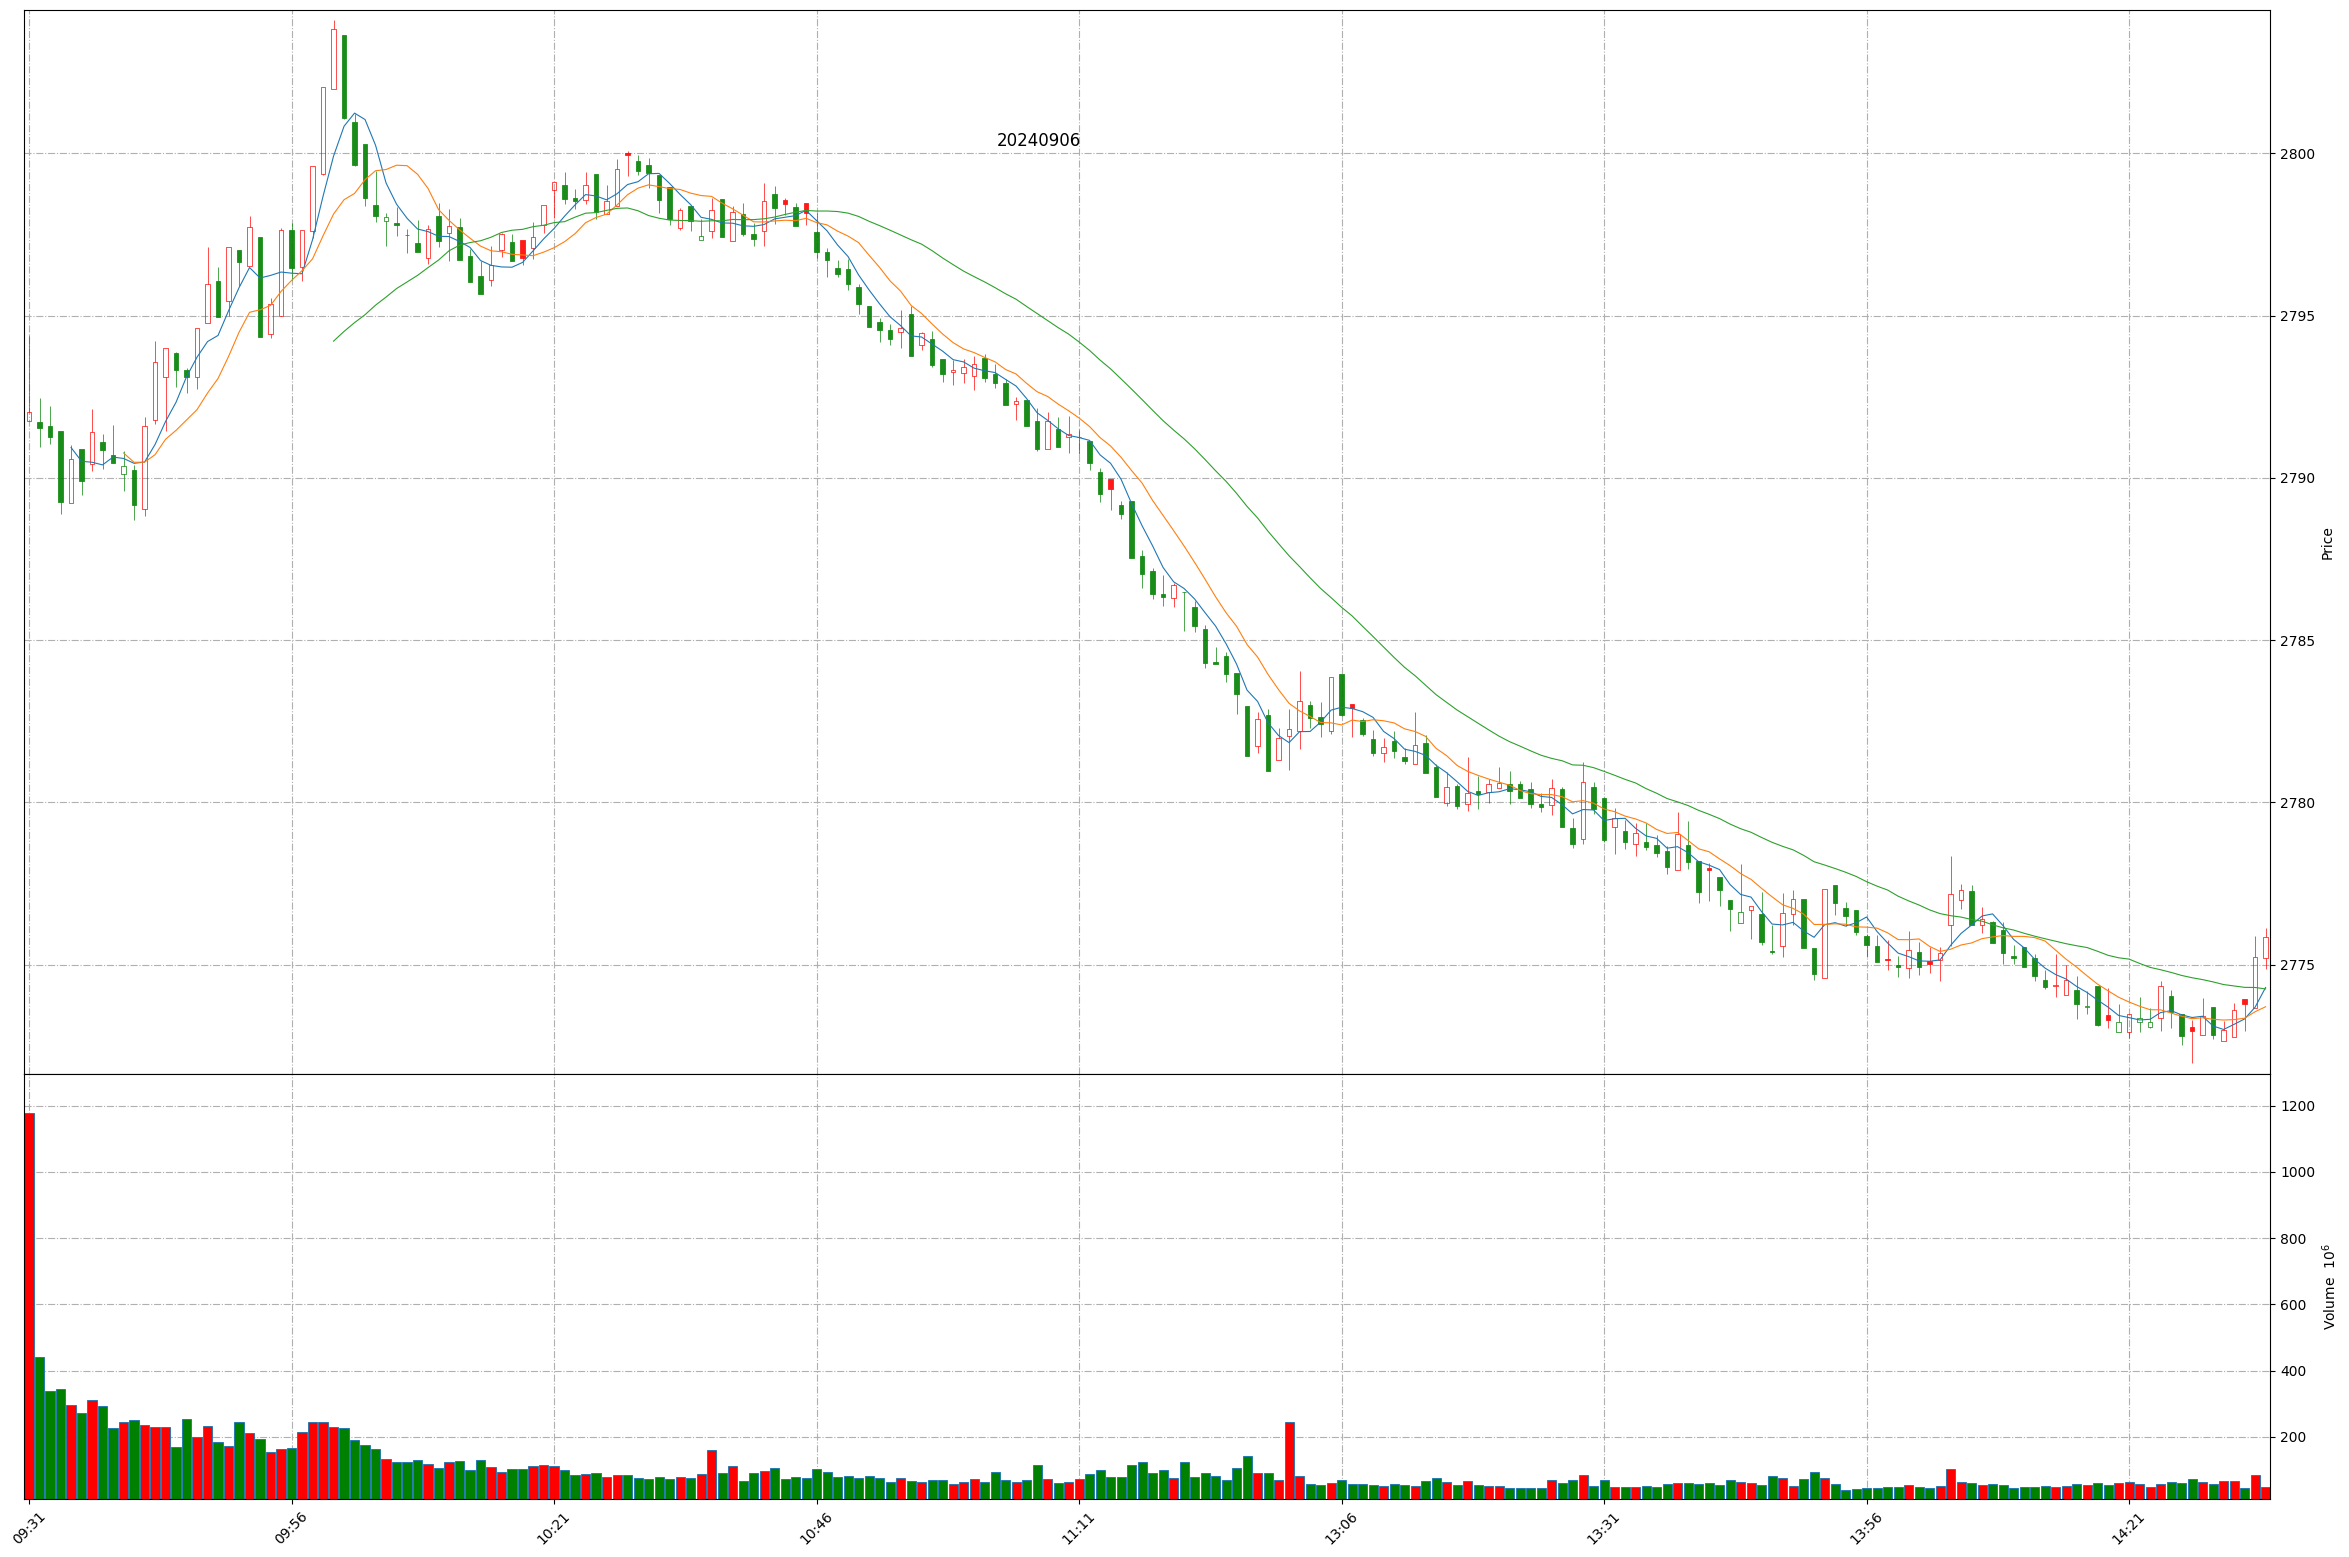
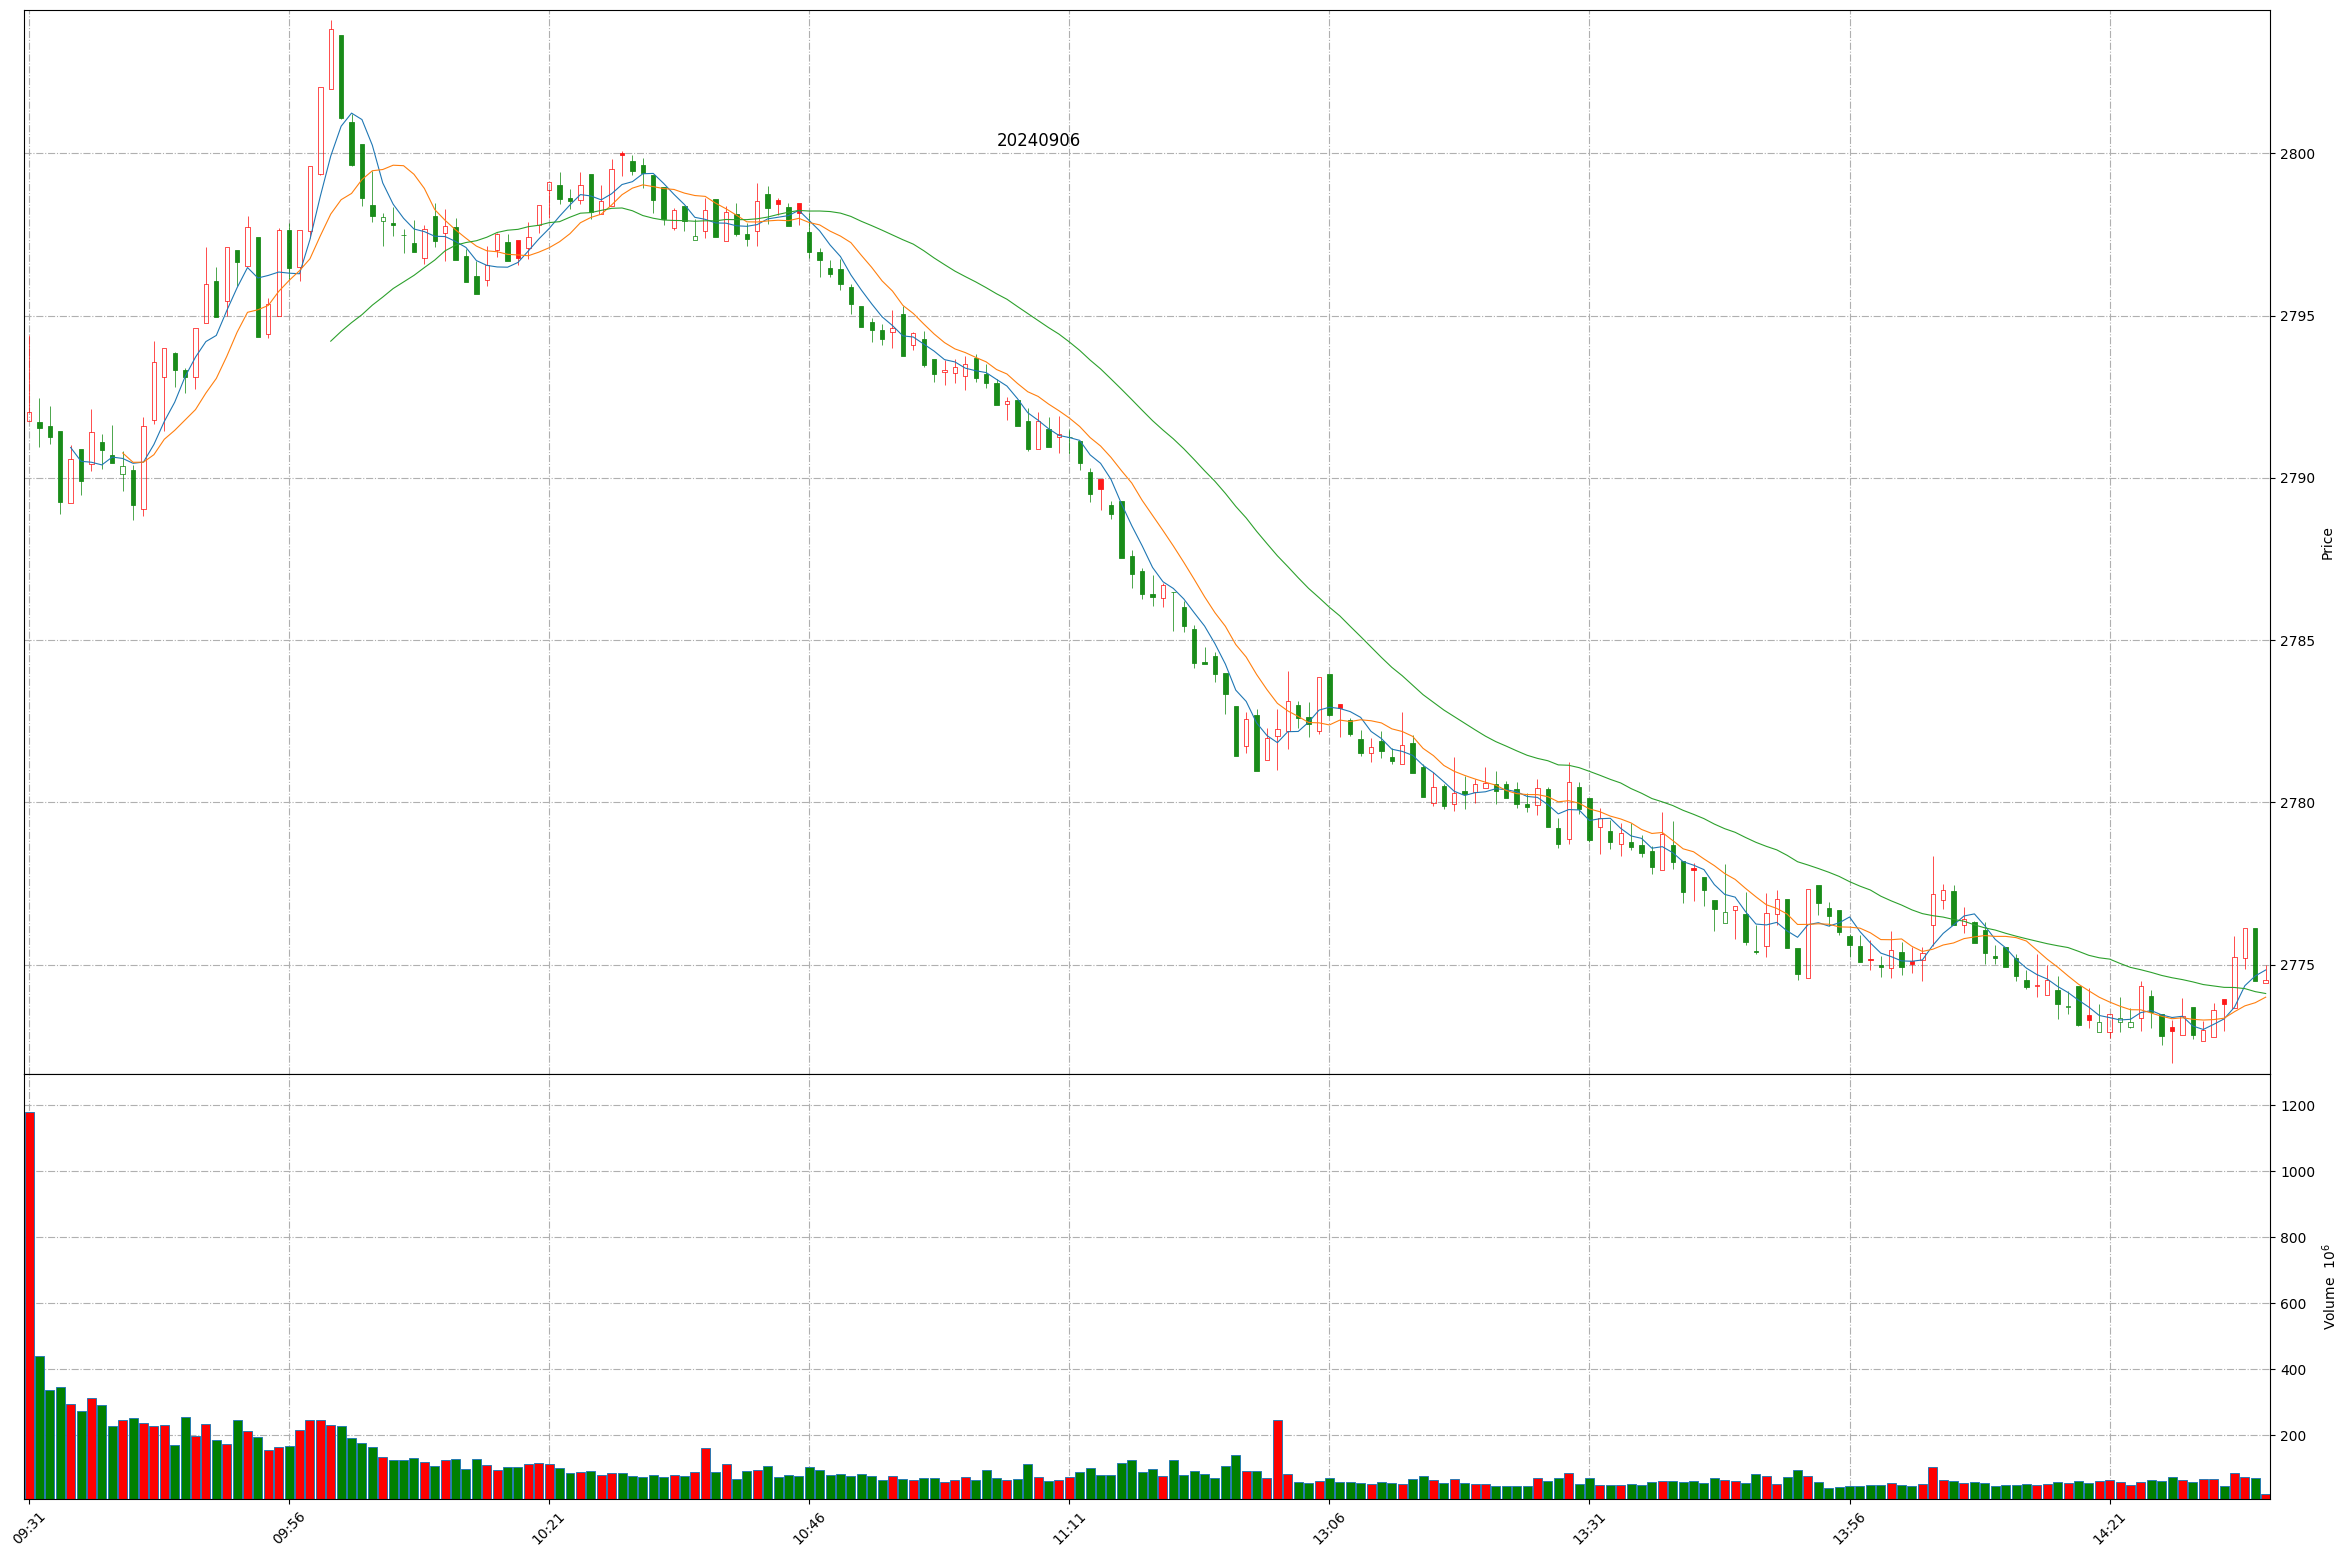
Github action update at 2024-09-06 14:35:34.

diff --git a/README.md b/README.md
@@ -1,11 +1,11 @@
 
 # Daily-A-share-market-quotes 每日 A 股指数（5min 更新）- 20240906
 
-### 上证指数 20240906 14:33
+### 上证指数 20240906 14:35
 ![](./fig/2024/9/20240906-sh000001.png)
 
-### 深证成指 20240906 14:33
+### 深证成指 20240906 14:35
 ![](./fig/2024/9/20240906-sz399001.png)
 
-### 北证50 20240906 14:33
+### 北证50 20240906 14:35
 ![](./fig/2024/9/20240906-bj899050.png)
